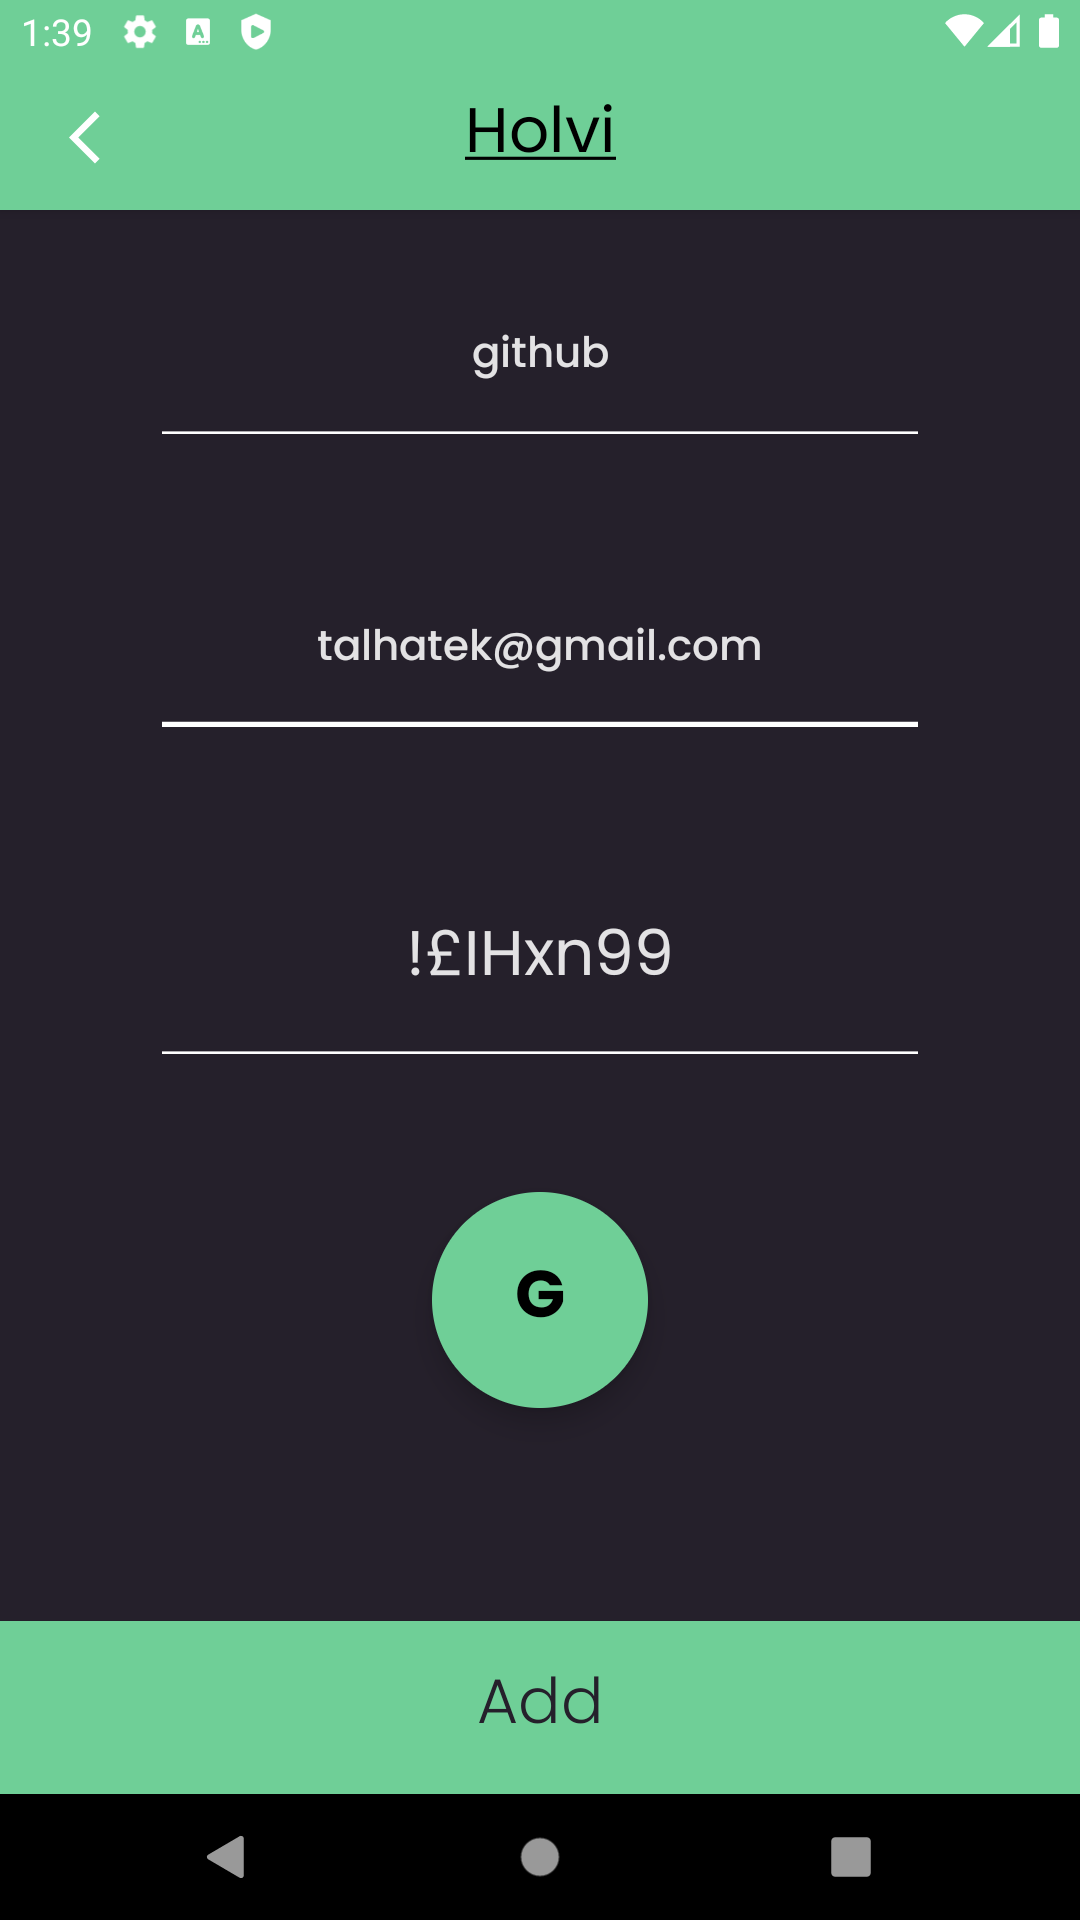
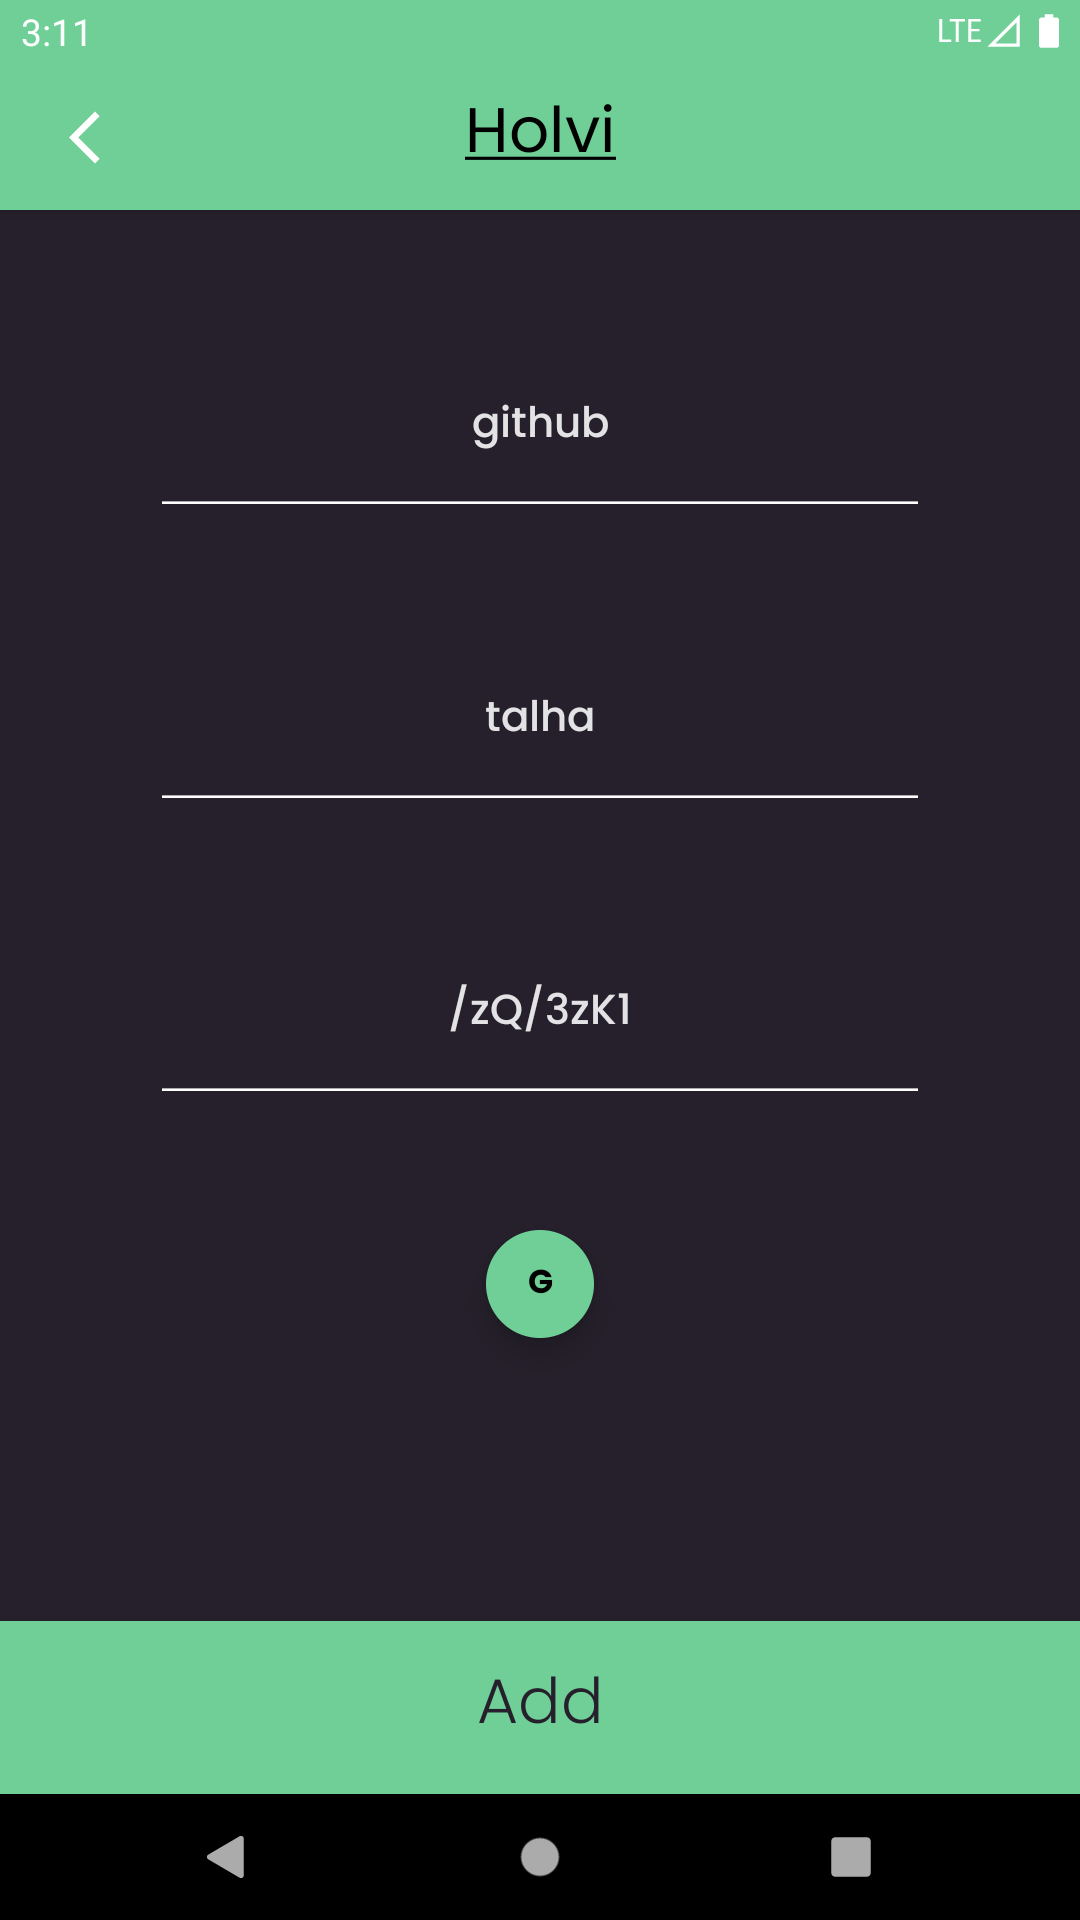
readme screenshots changed

diff --git a/app/src/main/java/com/example/holvi/ui/common/composable/Composable.kt b/app/src/main/java/com/example/holvi/ui/common/composable/Composable.kt
@@ -1,6 +1,5 @@
 package com.example.holvi.ui.common.composable
 
-import android.util.Log
 import androidx.annotation.DrawableRes
 import androidx.compose.animation.core.FastOutSlowInEasing
 import androidx.compose.animation.core.animateFloatAsState
@@ -36,7 +35,7 @@ import com.example.holvi.utils.rememberWindowInfo
 
 
 @Composable
-fun CircleTextButton(text: String, percentage: Int, onClicked: () -> Unit) {
+fun CircleTextButton(text: String, onClicked: () -> Unit) {
     val windowInfo = rememberWindowInfo()
 
     BoxWithConstraints {
@@ -56,16 +55,13 @@ fun CircleTextButton(text: String, percentage: Int, onClicked: () -> Unit) {
         ) {
             BoxWithConstraints {
                 val fontSize =
-                    ((this.maxWidth / 100) * 50).value.sp
-                Log.e("sizeDebug", "font size ${fontSize.value}")
-
+                    maxOf(this.maxHeight, this.maxWidth).value.div(2).sp
                 Text(
                     text = text.toUpperCase(Locale.current),
                     fontSize = fontSize,
                     style = TextStyle(
                         color = Color.Black,
                         fontFamily = PoppinsBold,
-                        fontSize = 24.sp,
                         fontWeight = FontWeight.ExtraBold
                     )
                 )
@@ -77,14 +73,14 @@ fun CircleTextButton(text: String, percentage: Int, onClicked: () -> Unit) {
 }
 
 @Composable
-fun CircleIconButton(@DrawableRes iconIdRes: Int, percentage: Int, onClicked: () -> Unit) {
+fun CircleIconButton(@DrawableRes iconIdRes: Int, onClicked: () -> Unit) {
     val windowInfo = rememberWindowInfo()
 
     val degree = remember { mutableStateOf(60f) }
     val angle: Float by animateFloatAsState(
         targetValue = degree.value,
         animationSpec = tween(
-            durationMillis = 400, // duration
+            durationMillis = 400,
             easing = FastOutSlowInEasing
         ),
     )

diff --git a/app/src/main/java/com/example/holvi/ui/generateActivity/composable/GenerateComposable.kt b/app/src/main/java/com/example/holvi/ui/generateActivity/composable/GenerateComposable.kt
@@ -98,9 +98,9 @@ fun GenerateScreen(navController: NavController) {
                         .fillMaxHeight(.05f)
                         .fillMaxWidth()
                 )
-               CircleIconButton(iconIdRes = R.drawable.ic_renew, percentage = 15) {
-                   viewModel.generatePassword()
-               }
+                CircleIconButton(iconIdRes = R.drawable.ic_renew) {
+                    viewModel.generatePassword()
+                }
                 Spacer(
                     modifier = Modifier
                         .fillMaxHeight(.05f)
@@ -283,11 +283,11 @@ fun HolviSwitch(isChecked: Int, onCheckedChange: (checked: Int) -> Unit) {
             }
             .background(backgroundColor.value)
             .onGloballyPositioned {
-                Log.e("sizeFixerBg", it.size.toString())
+
             }
     ) {
         Box(
-            Modifier
+            modifier = Modifier
                 .padding(horizontal = marblePadding)
                 .offset {
                     IntOffset(
@@ -299,7 +299,9 @@ fun HolviSwitch(isChecked: Int, onCheckedChange: (checked: Int) -> Unit) {
                 .clip(CircleShape)
                 .background(Color.White)
                 .onGloballyPositioned {
-                    Log.e("sizeFixerMarble", yOffset.toString())
+                    Log.e("sizeFixerY", yOffset.toString())
+                    Log.e("sizeFixerW", width.toString())
+                    Log.e("sizeFixerM", marbleSize.toString())
 
                 }
         )

diff --git a/app/src/main/java/com/example/holvi/ui/add_screen/composable/AddComposable.kt b/app/src/main/java/com/example/holvi/ui/add_screen/composable/AddComposable.kt
@@ -121,8 +121,7 @@ fun AddScreen(navController: NavController) {
                         }
                         item {
                             CircleTextButton(
-                                text = "G",
-                                percentage = if (LocalConfiguration.current.orientation == Configuration.ORIENTATION_LANDSCAPE) 10 else 20
+                                text = "G"
                             ) {
                                 password = myAddViewModel.generatePassword()
                             }
